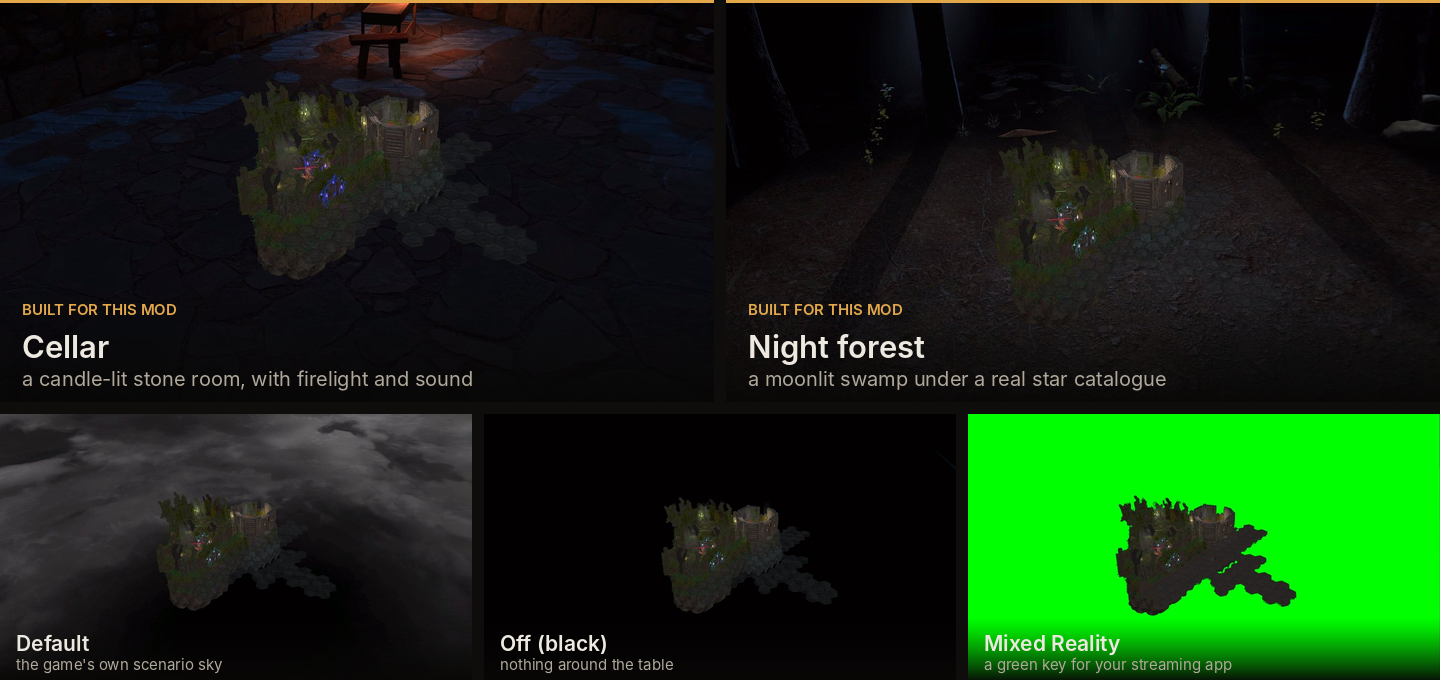
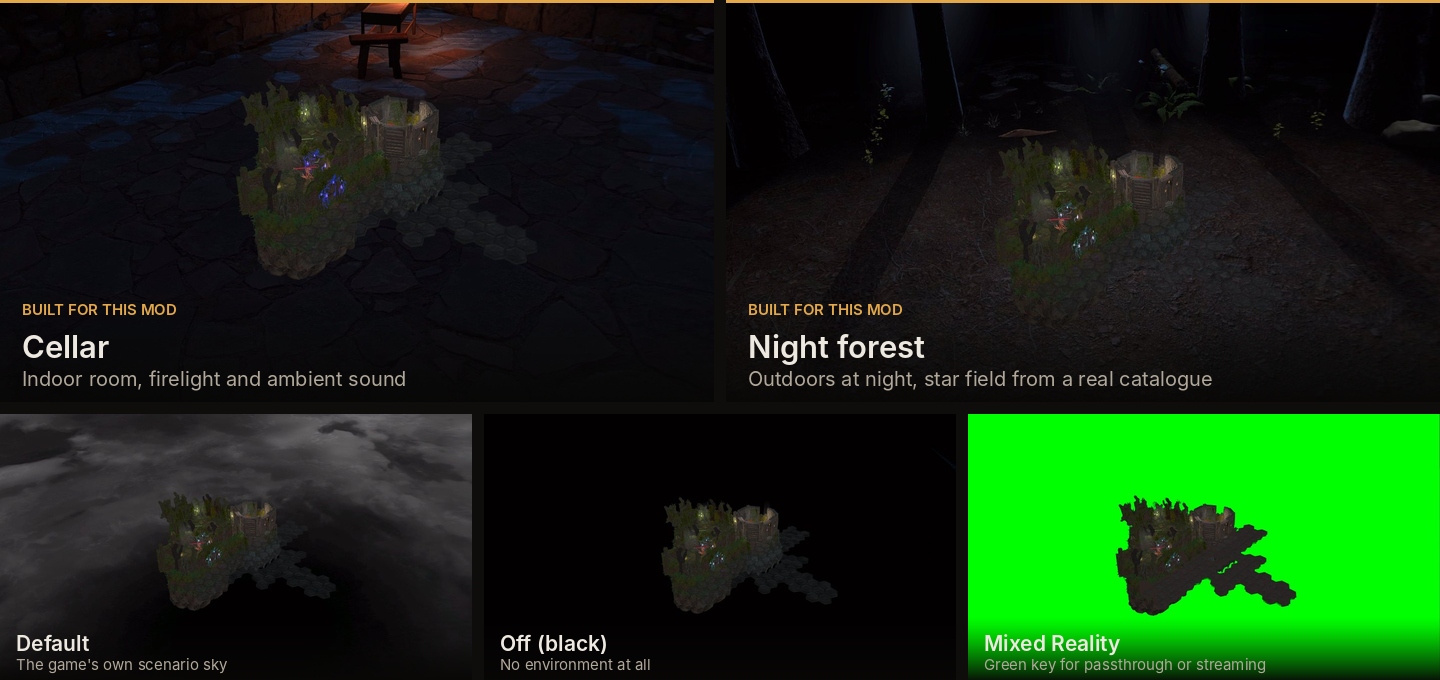
docs(img): the captions inside the pictures were doing mood where they should do label
Maintainer: 'Auch in den Texten in den Bildern sowas wie "unter echten Sternenkatalog"
zaehlt fuer mich zur selben Kategorie.'

He is right, and the environment sheet was the worst of it: a caption on a picker tile is
a label, and "a moonlit swamp under a real star catalogue" makes the reader decode a mood
to find out what the option is.

  a candle-lit stone room, with firelight and sound  -> Indoor room, firelight and ambient sound
  a moonlit swamp under a real star catalogue        -> Outdoors at night, star field from a real catalogue
  nothing around the table                           -> No environment at all
  a green key for your streaming app                 -> Green key for passthrough or streaming

The star catalogue is a real technical fact and it stays. It just stops being scenery.

The same phrase had leaked into four places on the pages themselves (both READMEs, both
playing guides), so those moved with it, and the feature bullet now reads "Two environments
built for the mod: an indoor cellar and an outdoor night forest".

Two more found while sweeping the other generators, both smaller: the controls diagram said
"Left stick: fly through the room" for what is ordinary locomotion (rise and sink is a
separate opt-in setting, so "fly" was not even accurate), and its closing note ended "and
the tutorial in the game teaches all of it without you reading anything", which is a
[…]

diff --git a/docs/img/build-controls-diagram.py b/docs/img/build-controls-diagram.py
@@ -233,7 +233,7 @@ LABELS = {
         "callouts": {
             "stick_click": "Click a stick in: pull yourself along",
             "recentre":    "Hold Y + B: recentre yourself",
-            "left_stick":  "Left stick: fly through the room",
+            "left_stick":  "Left stick: move through the room",
             "options":     "X: opens the pause menu",
             "trigger":     "Trigger, either hand: take a card, point and click",
             "right_stick": "Right stick: turn · reel a window in",
@@ -242,7 +242,7 @@ LABELS = {
         },
         "cells": [
             (BLUE, "Thumbstick — push", [
-                "Left stick: fly through the room.",
+                "Left stick: move through the room.",
                 "Right stick, left or right: turn.",
                 "Right stick, pull back: reel a window in.",
             ]),
@@ -274,8 +274,8 @@ LABELS = {
             ]),
         ],
         "note": "A Quest 3 is shown; every supported controller has the same keys in the same "
-                "places. Handedness, turning and every binding above are changeable in VR Options "
-                "— and the tutorial in the game teaches all of it without you reading anything.",
+                "places. Handedness, turning and every binding above are changeable in VR "
+                "Options. The in-game tutorial covers all of it.",
     },
     "de": {
         "left": "LINKS", "right": "RECHTS",
@@ -286,7 +286,7 @@ LABELS = {
         "callouts": {
             "stick_click": "Stick eindrücken: dich heranziehen",
             "recentre":    "Y + B halten: neu zentrieren",
-            "left_stick":  "Linker Stick: durch den Raum fliegen",
+            "left_stick":  "Linker Stick: durch den Raum bewegen",
             "options":     "X: öffnet das Pause-Menü",
             "trigger":     "Trigger, beide Hände: Karte nehmen, zeigen und klicken",
             "right_stick": "Rechter Stick: drehen, Fenster heranholen",
@@ -295,7 +295,7 @@ LABELS = {
         },
         "cells": [
             (BLUE, "Thumbstick — drücken", [
-                "Linker Stick: durch den Raum fliegen.",
+                "Linker Stick: durch den Raum bewegen.",
                 "Rechter Stick, links oder rechts: drehen.",
                 "Rechter Stick, zurückziehen: Fenster heranholen.",
             ]),
@@ -323,8 +323,8 @@ LABELS = {
             ]),
         ],
         "note": "Abgebildet ist eine Quest 3; jeder unterstützte Controller hat dieselben Tasten "
-                "an denselben Stellen. Händigkeit, Drehen und jede Belegung oben lassen sich in den "
-                "VR-Optionen ändern — und das Tutorial im Spiel bringt dir alles davon bei.",
+                "an denselben Stellen. Händigkeit, Drehen und jede Belegung oben lassen sich "
+                "in den VR-Optionen ändern. Das Tutorial im Spiel erklärt alles davon.",
     },
 }
 

diff --git a/docs/img/build-env-styles.py b/docs/img/build-env-styles.py
@@ -43,6 +43,12 @@ row and leave a gap on the other.
     off      cx 1974  bottom 1650  width 1330   f 0.729   -> lands 0.738
     mr       cx 2103  bottom 1660  width 1340   f 0.729   -> lands 0.745
 
+THE CAPTIONS SAY WHAT AN OPTION IS, NOT WHAT IT FEELS LIKE. The first version read "a moonlit
+swamp under a real star catalogue", and the maintainer put it in the same category as the page
+headings he had already had rewritten: a caption on a picker tile is a label, and a label that has
+to be decoded is not doing its job. The star catalogue is a real technical fact and it stays; it
+just stops being scenery.
+
 THE NAMES COME FROM Loc.cs, VERBATIM, AND THAT IS THE POINT. A gallery whose captions drift from the
 menu rows is a lookup, not a glance — the same argument the control-board callouts are written
 under. `sky_default` / `sky_cellar` / `sky_swamp` / `sky_off` are the four SkyStyle rows and
@@ -89,18 +95,18 @@ ACCENT = (226, 168, 74)
 # rooms and take the wide top row; the order inside each row follows VariantTilesTable's picker.
 TILES = [
     ("cellar", "Cellar", "Keller",
-     "a candle-lit stone room, with firelight and sound",
-     "ein kerzenbeleuchteter Steinraum mit Feuerschein und Klang"),
+     "Indoor room, firelight and ambient sound",
+     "Innenraum, Feuerschein und Umgebungsklang"),
     ("forest", "Night forest", "Nachtwald",
-     "a moonlit swamp under a real star catalogue",
-     "ein Mondsumpf unter einem echten Sternkatalog"),
+     "Outdoors at night, star field from a real catalogue",
+     "Außen bei Nacht, Sternfeld aus einem echten Katalog"),
     ("default", "Default", "Standard",
-     "the game's own scenario sky", "der Szenario-Himmel des Spiels"),
+     "The game's own scenario sky", "Der Szenario-Himmel des Spiels"),
     ("off", "Off (black)", "Aus (schwarz)",
-     "nothing around the table", "gar nichts rund um den Tisch"),
+     "No environment at all", "Gar keine Umgebung"),
     ("mr", "Mixed Reality", "Mixed Reality an",
-     "a green key for your streaming app",
-     "ein Greenscreen für die Streaming-App"),
+     "Green key for passthrough or streaming",
+     "Greenscreen für Passthrough oder Streaming"),
 ]
 
 # Only the two rooms wear it. It says what the size is already saying, in words.

diff --git a/docs/img/build-board-diagram.py b/docs/img/build-board-diagram.py
@@ -462,8 +462,8 @@ LABELS = {
             ]),
             # Cards/Tray/PlayTray.1.Core.cs:1158-1273 (BuildHandle), :1043-1075 (carry).
             (CYAN, "The grab rod", [
-                "Grip it with one hand and the whole board comes with you —",
-                "cards, keys, stacks and panels together.",
+                "Grip it with one hand to carry the whole board: cards, keys,",
+                "stacks and panels together.",
                 "Grip it with both hands to make the board bigger or smaller.",
             ]),
             # PlayTray.1.Core.cs:890-897 (InitiativeMount), PlayTray.5.Status.cs:72-108 and

diff --git a/README.de.md b/README.de.md
@@ -66,8 +66,8 @@ gleich macht. Leg sie zurück, dann setzt sie sich wieder auf ein Feld.
   von Gloomhaven, und die Aufträge hängen daneben an der Wand.
 - Vollwertiger VR-Mehrspieler. Masken, Hände, Bretter und zeigende Finger sehen alle anderen auch.
   Wer kein Headset hat, spielt in derselben Partie am flachen Bildschirm mit.
-- Räume, die für die Mod gebaut wurden. Ein kerzenbeleuchteter Keller und ein Nachtwald unter einem
-  echten Sternkatalog, beide reagieren auf die Elemente des Szenarios.
+- Zwei Umgebungen, die für die Mod gebaut wurden: ein Keller drinnen und ein Nachtwald draußen,
+  beide reagieren auf die Elemente des Szenarios.
 - Mixed Reality. Der Himmel verschwindet, und der Tisch steht in deinem echten Zimmer.
 
 <p align="center">
@@ -133,8 +133,8 @@ freigeschaltet wird, leuchtet der ganze Raum auf.
 
 ## Umgebungen
 
-Ein kerzenbeleuchteter Keller oder ein Nachtwald unter einem echten Sternkatalog. Beide wurden für
-die Mod gebaut, mit Feuerschein und Umgebungsklang, und mit dem, was ab und zu passiert, wenn man
+Ein Keller drinnen und ein Nachtwald draußen, beide für die Mod gebaut. Sie haben Feuerschein,
+Umgebungsklang, ein Sternfeld aus einem echten Katalog, und das, was ab und zu passiert, wenn man
 lange genug herumsteht.
 
 <p align="center">

diff --git a/README.md b/README.md
@@ -66,8 +66,8 @@ Drop it and it settles back onto a hex.
   with the quests on the wall next to you.
 - Full VR multiplayer. Masks, hands, boards and pointing fingers are visible to everyone, and people
   without a headset can play in the same game on a flat screen.
-- Rooms built for the mod. A candle-lit cellar and a night forest under a real star catalogue, both
-  reacting to the scenario's elements.
+- Two environments built for the mod: an indoor cellar and an outdoor night forest, both reacting
+  to the scenario's elements.
 - Mixed reality. The sky drops away and the table stands in your actual room.
 
 <p align="center">
@@ -130,8 +130,9 @@ of you. The quests hang on the wall where you can read them, and unlocking one l
 
 ## Environments
 
-A candle-lit cellar, or a night forest under a real star catalogue. Both were built for the mod,
-with firelight and ambient sound, and the odd thing that happens if you stand around long enough.
+An indoor cellar and an outdoor night forest, both built for the mod. They have firelight, ambient
+sound, a star field taken from a real catalogue, and the odd thing that happens if you stand around
+long enough.
 
 <p align="center">
   <img src="docs/img/env-cellar.jpg" width="350" alt="The cellar">

diff --git a/docs/PLAYING.de.md b/docs/PLAYING.de.md
@@ -188,9 +188,9 @@ alle eingecheckten Clips entfernt wurden. Auftrag:
 </p>
 -->
 
-Ein kerzenbeleuchteter **Keller**, ein **Nachtwald** unter einem echten Sternkatalog, der
-**Standard**-Look des Spiels oder **Aus (schwarz)**. Beide gebauten Räume haben Feuerschein,
-Tropfen, Mondstrahlen und leisen räumlichen Klang.
+Ein **Keller** drinnen, ein **Nachtwald** draußen mit einem Sternfeld aus einem echten Katalog, der
+**Standard**-Himmel des Spiels oder **Aus (schwarz)**. Beide gebauten Räume haben Feuerschein,
+Wassertropfen, Mondlicht und leisen räumlichen Klang.
 
 In beiden stecken außerdem seltene Erscheinungen: ein Gesicht am vergitterten Fenster, jemand im
 Dunkel des Treppenschachts, Augen, die im Unterholz blinzeln. Sie tauchen nie über dem Brett auf und

diff --git a/docs/PLAYING.md b/docs/PLAYING.md
@@ -182,9 +182,9 @@ from a repo path does not play on GitHub, which is why every committed clip was 
 </p>
 -->
 
-A candle-lit **cellar**, a **moonlit forest** under a real star catalogue, the game's own **Default**
-look, or **Off (black)**. Both built rooms have firelight, drips, moonbeams and quiet spatial
-ambience.
+An indoor **cellar**, an outdoor **night forest** with a star field from a real catalogue, the
+game's own **Default** sky, or **Off (black)**. Both built rooms have firelight, water drips,
+moonlight and quiet spatial audio.
 
 There are also rare apparitions hidden in them: a face at the barred window, someone standing in the
 dark of the stair shaft, eyes blinking in the undergrowth. They never appear over the board and
